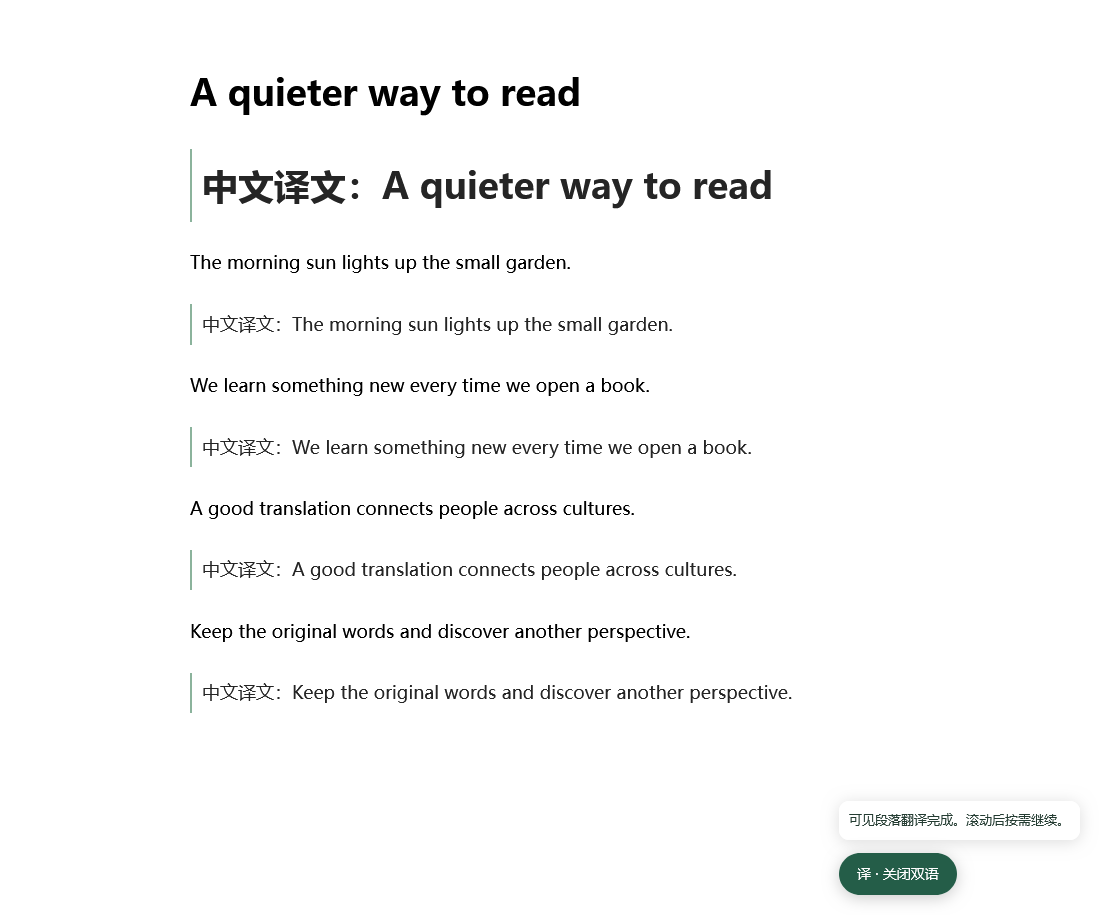
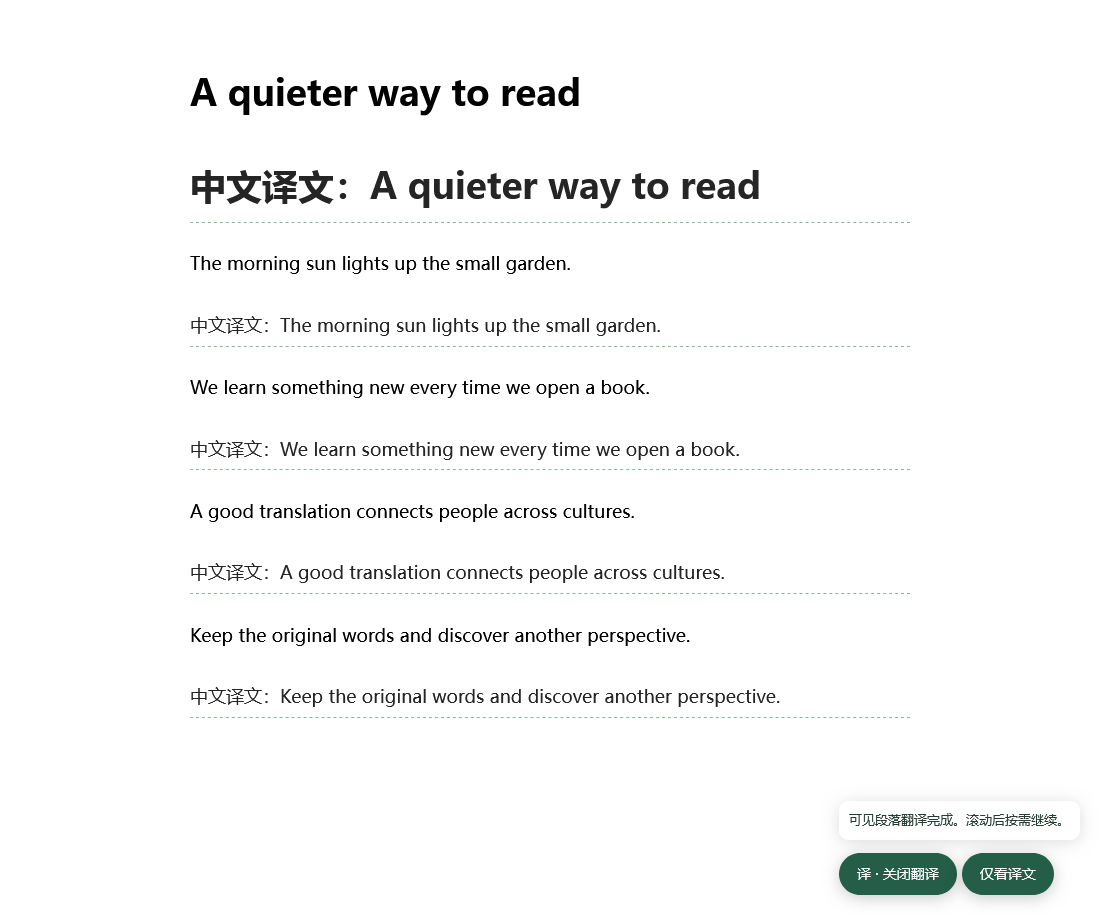
feat: translated-only reading mode and v0.2 browser release (phase 4)

diff --git a/lib/text-dom.ts b/lib/text-dom.ts
@@ -1,5 +1,6 @@
 import type { TextItem, TextResult } from './text-api';
-const SELECTOR = 'p,h1,h2,h3,h4,h5,h6,li,blockquote,figcaption,td,th';
+import { hideOriginal } from './text-view';
+const SELECTOR = 'p,h1,h2,h3,h4,h5,h6,li,blockquote,figcaption,td,th,article';
 const EXCLUDE = '[data-bl-owned],script,style,noscript,pre,code,textarea,input,select,button,nav,header,footer,[contenteditable]:not([contenteditable="false"]),[translate="no"],[aria-hidden="true"],[hidden]';
 export function textOf(element: HTMLElement): string { return element.textContent?.replace(/\s+/g,' ').trim() ?? ''; }
 export function candidates(root: ParentNode = document): HTMLElement[] {
@@ -23,9 +24,10 @@ export function renderTranslation(source: HTMLElement, text: string) {
   if (['LI','TD','TH'].includes(source.tagName)) source.append(node); else source.after(node);
   return node;
 }
-interface RecordState { source: string; parts: string[]; translated: (string | undefined)[]; inflight: Set<number>; node?: HTMLElement }
+interface RecordState { source: string; parts: string[]; translated: (string | undefined)[]; inflight: Set<number>; node?: HTMLElement; restore?:()=>void }
 export class TextTranslator {
   enabled = false;
+  onlyTranslated = false;
   private records = new Map<HTMLElement,RecordState>();
   private visible = new Set<HTMLElement>();
   private timer?: ReturnType<typeof setTimeout>;
@@ -51,15 +53,21 @@ export class TextTranslator {
   stop() {
     this.enabled=false; this.epoch++; clearTimeout(this.timer); clearTimeout(this.scanTimer);
     this.observer.disconnect(); this.mutations.disconnect(); this.visible.clear();
-    for (const state of this.records.values()) state.node?.remove(); this.records.clear();
+    for (const state of this.records.values()) {state.restore?.();state.node?.remove();} this.records.clear();this.onlyTranslated=false;
   }
   toggle() { if (this.enabled) { this.stop(); this.report('双语翻译已关闭。'); } else this.start(); }
+  toggleMode(){
+    if(!this.enabled)return;
+    this.onlyTranslated=!this.onlyTranslated;
+    for(const [el,state] of this.records){state.restore?.();state.restore=undefined;if(this.onlyTranslated&&state.node)state.restore=hideOriginal(el,state.node);}
+    this.report(this.onlyTranslated?'仅显示已完成的译文；未翻译段落继续保留原文。':'已恢复双语显示。');
+  }
   private scan() {
     if (!this.enabled) return;
     for (const [el,state] of this.records) {
       // Remove our child translation before comparing source text in list/table cells.
       const own = state.node; const text = Array.from(el.childNodes).filter(n=>n!==own).map(n=>n.textContent).join('').replace(/\s+/g,' ').trim();
-      if (!el.isConnected || text !== state.source) { own?.remove(); this.records.delete(el); this.visible.delete(el); this.observer.unobserve(el); }
+      if (!el.isConnected || text !== state.source) { state.restore?.();own?.remove(); this.records.delete(el); this.visible.delete(el); this.observer.unobserve(el); }
     }
     for (const el of candidates()) {
       if (this.records.has(el)) continue;
@@ -77,7 +85,7 @@ export class TextTranslator {
       for (let part=0;part<state.parts.length;part++) {
         const text=state.parts[part]!;
         if (state.translated[part] !== undefined || state.inflight.has(part)) continue;
-        if (work.length>=6 || size+text.length>3600) break;
+        if (work.length>=6 || size+text.length>1800) break;
         size+=text.length; work.push({el,state,part,id:String(work.length),text});
       }
     }
@@ -91,7 +99,7 @@ export class TextTranslator {
         const translated=result.find(r=>r.id===w.id)?.translated;
         if (translated===undefined) throw new Error('部分译文缺失，请重新开启翻译。');
         w.state.translated[w.part]=translated;
-        if (w.state.parts.every((_,i)=>w.state.translated[i]!==undefined)) w.state.node=renderTranslation(w.el,w.state.translated.join(' '));
+        if (w.state.parts.every((_,i)=>w.state.translated[i]!==undefined)) {w.state.node=renderTranslation(w.el,w.state.translated.join(' '));if(this.onlyTranslated)w.state.restore=hideOriginal(w.el,w.state.node);}
       }
       this.report('可见段落翻译完成。滚动后按需继续。');
     } catch (e) {

diff --git a/entrypoints/content.ts b/entrypoints/content.ts
@@ -10,21 +10,23 @@ export default defineContentScript({
     const host=document.createElement('div'); host.dataset.blOwned='controls';
     Object.assign(host.style,{position:'fixed',right:'20px',bottom:'20px',zIndex:'2147483647'});
     const root=host.attachShadow({mode:'open'});
-    root.innerHTML='<style>:host{all:initial}button{font:14px system-ui;border:0;border-radius:22px;padding:12px 18px;background:#245d48;color:white;cursor:pointer;box-shadow:0 3px 16px #0003}p{font:13px/1.5 system-ui;max-width:280px;background:#fff;color:#243c32;border-radius:10px;padding:10px;box-shadow:0 2px 16px #0002}p:empty{display:none}</style><p role="status" aria-live="polite"></p><button title="Alt+Shift+T">译 · 开启双语</button>';
+    root.innerHTML='<style>:host{all:initial}button{font:14px system-ui;border:0;border-radius:22px;padding:12px 18px;background:#245d48;color:white;cursor:pointer;box-shadow:0 3px 16px #0003}p{font:13px/1.5 system-ui;max-width:280px;background:#fff;color:#243c32;border-radius:10px;padding:10px;box-shadow:0 2px 16px #0002}p:empty{display:none}</style><p role="status" aria-live="polite"></p><button title="Alt+Shift+T">译 · 开启翻译</button>';
     document.documentElement.append(host);
-    const button=root.querySelector('button')!, status=root.querySelector('p')!;
+    const button=root.querySelector('button')!, status=root.querySelector('p')!,mode=document.createElement('button');
+    mode.id='text-mode';mode.textContent='仅看译文';mode.hidden=true;mode.style.marginLeft='5px';root.append(mode);
     const translator=new TextTranslator(async items=>{
       const result=await browser.runtime.sendMessage({type:'translateText',items});
       if (!result.ok) throw new Error(result.error); return result.data;
-    },message=>{status.textContent=message; button.textContent=translator.enabled?'译 · 关闭双语':'译 · 开启双语';});
+    },message=>{status.textContent=message; button.textContent=translator.enabled?'译 · 关闭翻译':'译 · 开启翻译';mode.hidden=!translator.enabled;mode.textContent=translator.onlyTranslated?'显示双语':'仅看译文';});
     button.addEventListener('click',()=>translator.toggle());
+    mode.addEventListener('click',()=>translator.toggleMode());
     const send=async<T>(message:BackgroundRequest):Promise<T>=>{const reply:ApiReply<T>=await browser.runtime.sendMessage(message);if(!reply.ok)throw new Error(reply.error);return reply.data;};
     const images=installImageUI({
       fetchImage:(url,layout)=>send<string>({type:'fetchImage',url,layout}),
       full:dataUrl=>send<Bubble[]>({type:'translateImage',dataUrl}),
       snippet:dataUrl=>send<Snippet>({type:'translateSnippet',dataUrl})
     },message=>{status.textContent=message;});
-    const listener=(message: {type:string;url?:string})=>{if(message.type==='toggle') translator.toggle();if(message.type==='contextImage')images.contextTranslate(message.url); if(message.type==='settingsChanged') {translator.stop();images.reset(); status.textContent='设置已更新，请重新开启翻译。'; button.textContent='译 · 开启双语';}};
+    const listener=(message: {type:string;url?:string})=>{if(message.type==='toggle') translator.toggle();if(message.type==='textMode')translator.toggleMode();if(message.type==='contextImage')images.contextTranslate(message.url); if(message.type==='settingsChanged') {translator.stop();images.reset(); status.textContent='设置已更新，请重新开启翻译。'; button.textContent='译 · 开启翻译';mode.hidden=true;}};
     browser.runtime.onMessage.addListener(listener);
     ctx.onInvalidated(()=>{translator.stop();images.destroy();host.remove();browser.runtime.onMessage.removeListener(listener);});
   }

diff --git a/tests/text.test.ts b/tests/text.test.ts
@@ -2,6 +2,7 @@ import { it, expect, vi, afterEach } from 'vitest';
 import { readFileSync } from 'node:fs';
 import { candidates, chunks, TextTranslator } from '../lib/text-dom';
 import { translateText } from '../lib/text-api';
+import { hideOriginal } from '../lib/text-view';
 const settings={baseUrl:'https://openrouter.ai/api/v1',apiKey:'mock-key',targetLang:'简体中文',textModel:'test',visionModel:'test'};
 afterEach(()=>{vi.useRealTimers();vi.unstubAllGlobals();document.body.innerHTML='';});
 it('batches paragraphs into the chat completions route, deduplicates and caches',async()=>{
@@ -31,10 +32,19 @@ it('renders four visible paragraphs, defers offscreen text and removes translati
   expect(document.querySelectorAll('.bl-translation')).toHaveLength(4);
   expect(document.querySelector('.below')!.nextElementSibling).toBeNull();
   expect(paragraphs[0]!.textContent).toBe('The morning sun lights up the small garden.');
+  controller.toggleMode();expect(paragraphs[0]!.style.display).toBe('none');expect((document.querySelector('.below') as HTMLElement).style.display).toBe('');
+  controller.toggleMode();expect(paragraphs[0]!.style.display).toBe('');
   intersect!([{target:paragraphs[4]!,isIntersecting:true} as unknown as IntersectionObserverEntry],{} as IntersectionObserver);
   await vi.advanceTimersByTimeAsync(300); expect(document.querySelectorAll('.bl-translation')).toHaveLength(5);
-  controller.stop(); expect(document.querySelectorAll('.bl-translation')).toHaveLength(0);
+  controller.toggleMode();controller.stop(); expect(document.querySelectorAll('.bl-translation')).toHaveLength(0);expect(paragraphs[0]!.style.display).toBe('');
   vi.restoreAllMocks();
+});
+it('restores list/table text nodes and event handlers after translated-only mode',()=>{
+  document.body.innerHTML='<ul><li>Original <a href="#">link</a></li></ul>';
+  const li=document.querySelector('li')!,link=document.querySelector('a')!,clicked=vi.fn();link.addEventListener('click',clicked);
+  const t=document.createElement('div');t.textContent='译文';li.append(t);const reset=hideOriginal(li,t);
+  expect(link.style.display).toBe('none');expect(t.style.display).toBe('');expect(li.querySelector('[data-bl-owned=source-wrapper]')).not.toBeNull();
+  reset();expect(li.firstChild!.textContent).toBe('Original ');expect(link.style.display).toBe('');link.click();expect(clicked).toHaveBeenCalledTimes(1);
 });
 it('rejects mismatched model IDs and does not inject model HTML',async()=>{
   vi.stubGlobal('fetch',vi.fn().mockResolvedValue({ok:true,json:async()=>({choices:[{message:{content:'[{"id":"wrong","translated":"bad"}]'}}]})}));

diff --git a/lib/text-view.ts b/lib/text-view.ts
@@ -1,0 +1,22 @@
+/** Hide originals without replacing their nodes or dropping page event handlers. */
+export function hideOriginal(source:HTMLElement,translation:HTMLElement):()=>void {
+  const restore:(()=>void)[]=[];
+  const hide=(element:HTMLElement)=>{
+    const old=element.style.getPropertyValue('display'),priority=element.style.getPropertyPriority('display');
+    element.style.setProperty('display','none','important');
+    restore.push(()=>{if(element.style.getPropertyValue('display')==='none'&&element.style.getPropertyPriority('display')==='important'){
+      if(old)element.style.setProperty('display',old,priority);else element.style.removeProperty('display');
+    }});
+  };
+  if(translation.parentElement!==source)hide(source);
+  else for(const child of Array.from(source.childNodes)){
+    if(child===translation)continue;
+    if(child instanceof HTMLElement)hide(child);
+    else if(child.nodeType===Node.TEXT_NODE){
+      const wrapper=document.createElement('span');wrapper.dataset.blOwned='source-wrapper';wrapper.style.setProperty('display','none','important');child.before(wrapper);wrapper.append(child);
+      restore.push(()=>{wrapper.replaceWith(...wrapper.childNodes);});
+    }
+  }
+  source.dataset.blOriginalHidden='true';
+  return ()=>{for(const reset of restore)reset();delete source.dataset.blOriginalHidden;};
+}

diff --git a/lib/text-api.ts b/lib/text-api.ts
@@ -10,7 +10,7 @@ export function validateTextItems(value: unknown): TextItem[] {
     if (!item || typeof item.id !== 'string' || item.id.length > 80 || ids.has(item.id) || typeof item.text !== 'string' || !item.text.trim() || item.text.length > 1200) throw new Error('文本请求格式无效。');
     ids.add(item.id); size += item.text.length;
   }
-  if (size > 3600) throw new Error('单批文本过长。');
+  if (size > 1800) throw new Error('单批文本超过 1800 字符，请减少文本。');
   return value;
 }
 export async function translateText(s: Settings, input: unknown): Promise<TextResult[]> {

diff --git a/lib/content.css b/lib/content.css
@@ -1,1 +1,1 @@
-.bl-translation[data-bl-owned] { display:block !important; margin:6px 0 14px; padding:4px 0 4px 10px; border-left:2px solid #77a68b; opacity:.85; white-space:pre-wrap; overflow-wrap:anywhere; }
+.bl-translation[data-bl-owned] { display:block !important; margin:6px 0 14px; padding:4px 0; border-bottom:1px dashed #77a68b; opacity:.85; white-space:pre-wrap; overflow-wrap:anywhere; }

diff --git a/wxt.config.ts b/wxt.config.ts
@@ -1,6 +1,8 @@
 import { defineConfig } from 'wxt';
 export default defineConfig({
   manifestVersion: 3,
+  outDir: 'dist',
+  zip: { zipSources: false },
   manifest: {
     name: '双语轻译 · Bilingual Lite',
     description: '按需翻译可见段落与漫画气泡，自带 API Key。',
